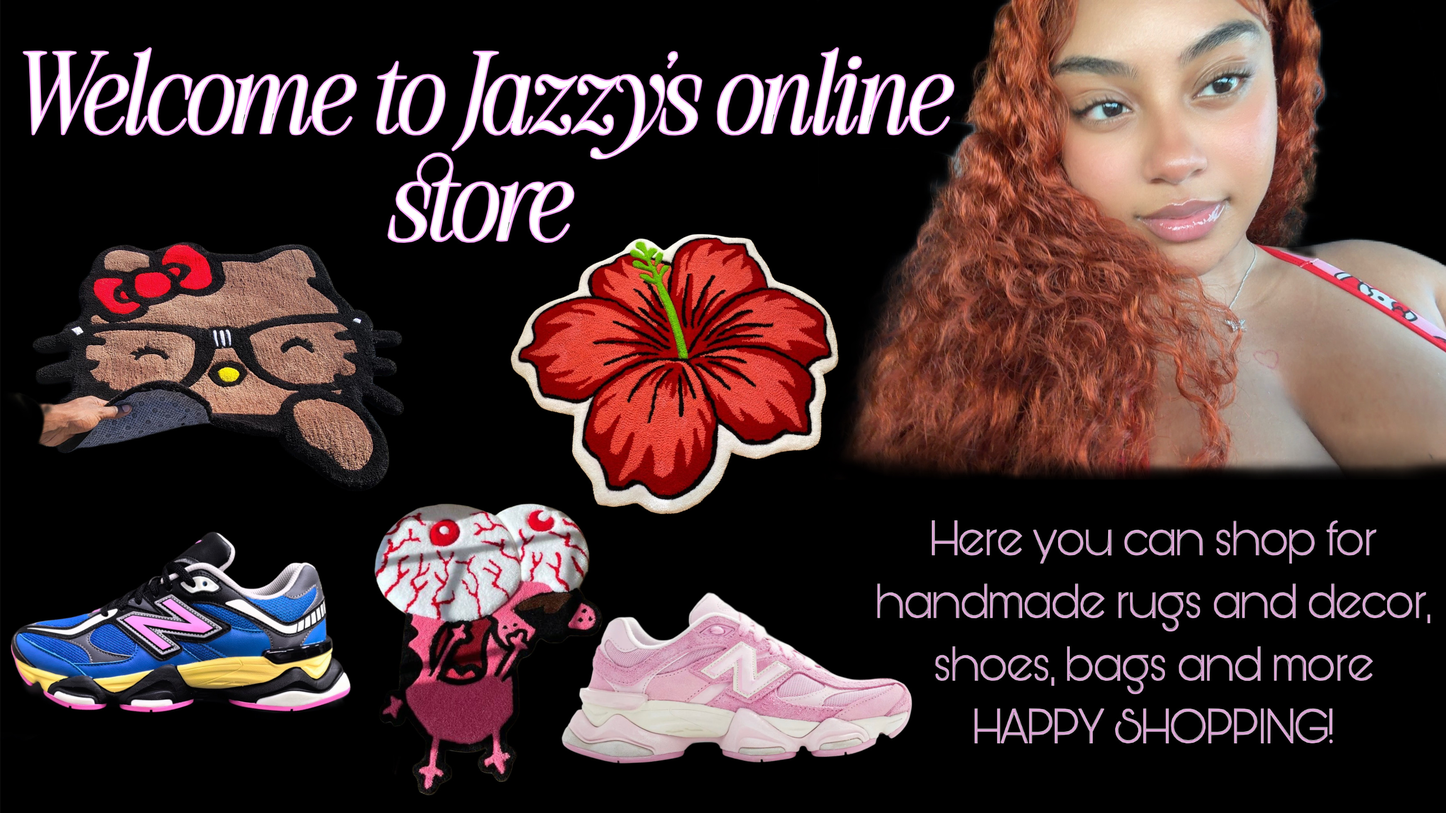
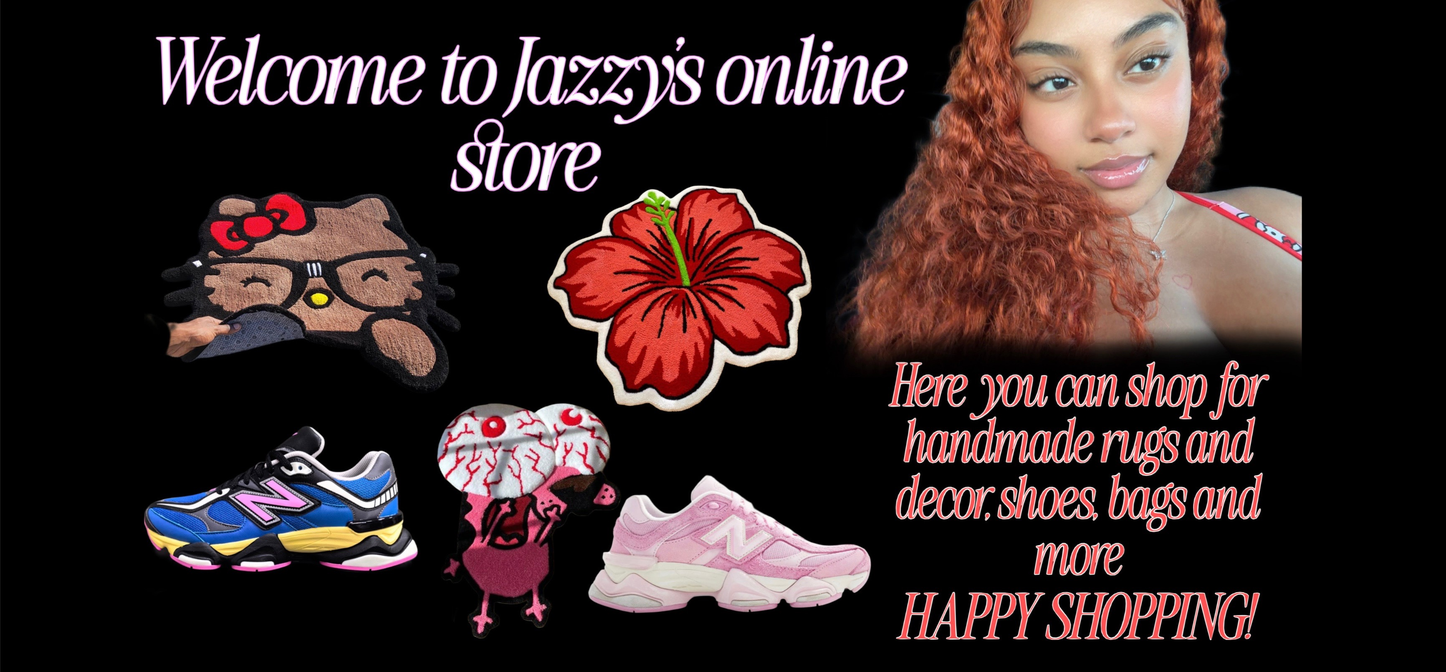
'twentyfour'

diff --git a/src/components/Hero.jsx b/src/components/Hero.jsx
@@ -9,8 +9,7 @@ export default function Hero({ onShopAll }) {
       />
 
       {/* Gradient layers */}
-      <div className="absolute inset-0 bg-gradient-to-t from-black/95 via-black/20 to-transparent pointer-events-none" />
-      <div className="absolute inset-0 bg-gradient-to-r from-black/50 to-transparent pointer-events-none" />
+
 
       {/* Content — bottom left */}
       <div className="absolute bottom-0 left-0 right-0 px-[5vw] pb-[4vw]">
